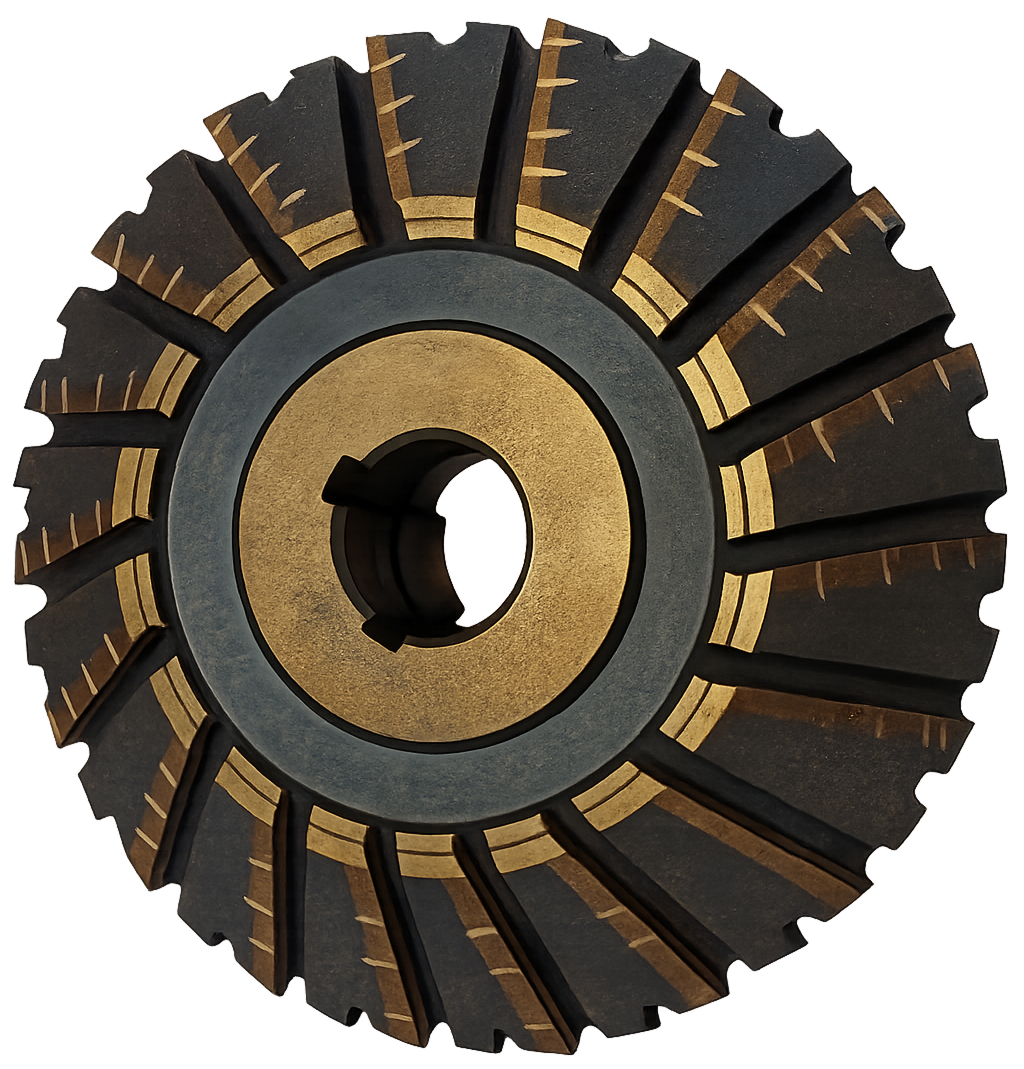
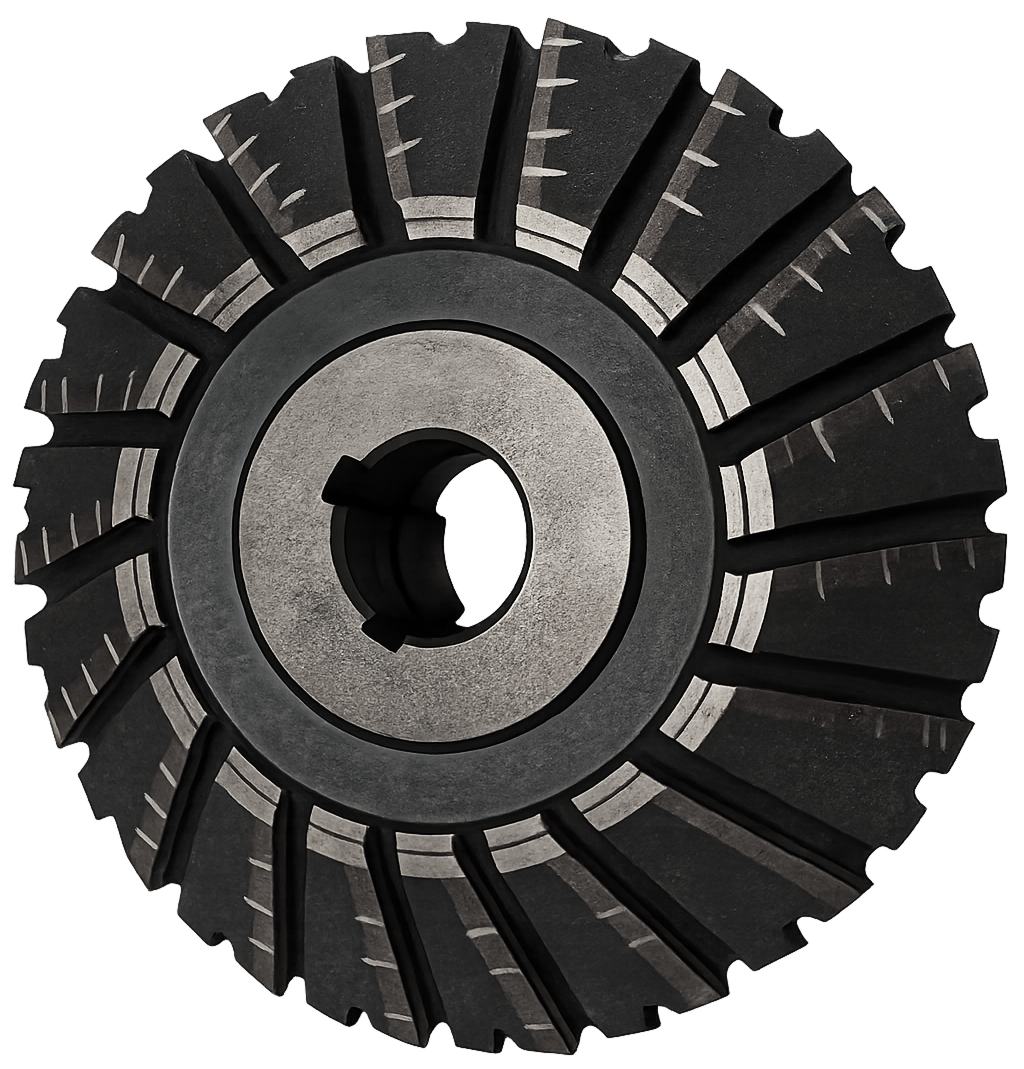
Волжанка и Тд вильямс

diff --git a/index.html b/index.html
@@ -33,10 +33,13 @@
   <section class="hero">
     <div class="container">
       <h1 class="hero__title">Pipe Cold Cutting &amp; Hot Tapping Equipment</h1>
-      <p class="hero__subtitle">Manufacture of tools for oil & gas pipeline repair
-         with flexible pricing. <!--Hot-tapping (fireless tapping) machines, 
+      <p class="hero__subtitle">Manufacture of tools for oil & gas pipeline repair.
+         <!--Hot-tapping (fireless tapping) machines, 
          angular and ring/annular cutters.--> </p>
-      <a href="contact.html" class="btn">Contact us</a>
+      <div class="hero__actions">
+        <a href="contact.html" class="btn">Contact us</a>
+        <a href="#products" class="btn btn--dark">Products</a>
+      </div>
     </div>
   </section>
 
@@ -46,13 +49,14 @@
       <h2 class="section-title">About company</h2>
       <div class="about__grid">
         <div class="about__text">
-          <p>For over 25 years, the company has been supplying equipment for the repair
+          <p><strong>PNRS LLC</strong> — for over 25 years, the company has been supplying equipment for the repair
              of oil and gas pipelines across all gas and oil networks of Eurasia,
-              and successfully cooperates with major raw-material suppliers such as: .... . 
+              and successfully cooperates with major raw-material suppliers.
               </p>
           <p>For more than a quarter of a century, we have been successfully manufacturing
-               fireless tapping machines (SM-307) and hot-tapping units for drilling holes
-                in pipelines — UKhV-50, UKhV-150, UKhV-300.</p>
+               chain-driven pipe cold cutting and beveling machines (SM-307) and hot tapping
+                machines that make branch connections of various diameters - 50, 150, 300
+                and 500 mm - in live, pressurized oil and gas pipelines without interrupting flow.</p>
         </div>
         <div class="about__image">
           <img src="images/HPU_stanki.png" alt="О компании BigTech">
@@ -62,33 +66,51 @@
   </section>
 
   <!-- ========== СЕКЦИЯ — Услуги / Преимущества ========== -->
-  <section class="features">
+  <section class="features" id="products">
     <div class="container">
       <h2 class="section-title">Что мы делаем</h2>
       <div class="features__grid">
         <div class="card">
           <div class="features_card_text">
-            <h3 class="card__title">Pipe cold cutting &amp; beveling machine (SM-307)</h3>
-            <p class="card__text">Chain-driven, spark-free cutting of in-service pipes — no heat, no sparks, weld-ready edge.</p>
+            <h3 class="card__title">Pipe cold cutting &amp; beveling machine</h3>
+            <h3 class="card__title">(219–820 mm)</h3>
+            <p class="card__text">SM-307 - chain-driven, spark-free cutting of in-service pipes, no heat, no sparks, weld-ready edge.</p>
             <a href="sm-307.html" class="card__btn">View details</a>
           </div>
-          <img src="images/sm-307img.png" alt="Pipe cold cutting machine SM-307">
+          <img src="images/sm-307imgW.png" alt="Pipe cold cutting machine SM-307">
         </div>
         <div class="card">
           <div class="features_card_text">
-            <h3 class="card__title">Hot tapping machines — UKhV-50, UKhV-150, UKhV-300</h3>
+            <h3 class="card__title">Pipe cold cutting &amp; beveling machine</h3>
+            <h3 class="card__title">(325–1420 mm)</h3>
+            <p class="card__text">Chain-driven, spark-free cutting of large-diameter in-service pipes - no heat, no sparks, weld-ready edge.</p>
+            <a href="voljanka.html" class="card__btn">View details</a>
+          </div>
+          <img src="images/voljanka.png" alt="Pipe cold cutting machine for 325–1420 mm pipes">
+        </div>
+        <div class="card card--hottap">
+          <div class="features_card_text">
+            <h3 class="card__title">Hot tapping machines — 50mm, 150mm, 300mm</h3>
             <p class="card__text">Make new branch connections on live, pressurized pipelines without interrupting flow.</p>
             <a href="UKnV.html" class="card__btn">View details</a>
           </div>
-          <img src="images/uhvBW.png" alt="UKhV hot tapping machine">
+          <img src="images/uhvW.png" alt="UKhV hot tapping machine">
         </div>
         <div class="card">
           <div class="features_card_text">
-            <h3 class="card__title">Annular &amp; profile cutters</h3>
-            <p class="card__text">Cutters for pipe-cutting and hot tapping machines — a wide range of pipe diameters.</p>
+            <h3 class="card__title">Angle milling cutters (FEIN)</h3>
+            <p class="card__text">Angle milling cutters for pipe cold cutting &amp; beveling machines - clean, weld-ready bevel across a wide range of diameters.</p>
             <a href="cutters.html" class="card__btn">View details</a>
           </div>
-          <img src="images/cutter1_2.png" alt="Annular and profile cutters">
+          <img src="images/cutter1.png" alt="Angle milling cutters (FEIN) for pipe cold cutting machines">
+        </div>
+        <div class="card">
+          <div class="features_card_text">
+            <h3 class="card__title">Annular cutters (T.D. Williamson)</h3>
+            <p class="card__text">Annular cutters for Hot Tapping &amp; Isolation equipment - cut branch outlets on live, pressurized pipelines.</p>
+            <a href="cutters.html" class="card__btn">View details</a>
+          </div>
+          <img src="images/cuttertdwilliamson.png" alt="Annular cutters (T.D. Williamson) for hot tapping and isolation">
         </div>
       </div>
     </div>

diff --git a/cutters.html b/cutters.html
@@ -35,34 +35,45 @@
   <section class="about_307">
     <div class="container">
       <h1 class="section-title_sm307_1">Annular &amp; Profile Cutters</h1>
-
-      <div class="about__grid_sm307">
+        <template>
+        <div class="about__grid_sm307">
         <div class="features_card_text">
           <h3 class="section-title_sm307">Cutters</h3>
           <p class="card__text">High-precision annular and profile cutters for both
-            pipe-cutting and hot tapping machines — engineered for fast, clean and
+            pipe cold cutting and hot tapping machines — engineered for fast, clean and
             reliable cutting across a wide range of pipe diameters and wall thicknesses.</p>
+          <p class="card__text">We supply two cutter families: <strong>angle milling
+            cutters</strong> for pipe cold cutting &amp; beveling machines, and
+            <strong>annular cutters</strong> for hot tapping &amp; line isolation
+            equipment.</p>
           <a href="contact.html" class="card__btn">Contact us</a>
         </div>
 
-        <img src="images/cutter1_2.png" alt="Annular and profile cutters">
+        <!-- Замени фото ниже на свои: общий кадр обоих семейств фрез -->
+        <img src="images/cuttertdwilliamson3.png" alt="Annular and profile cutters">
 
         <div class="card_cutter">
           <div class="features_card_text">
-            <h6 class="card__title">Annular cutters</h6>
-            <p class="card__text">For pipe-cutting &amp; hot tapping machines</p>
+            <h6 class="card__title">Angle milling cutters (FEIN)</h6>
+            <p class="card__text">For pipe cold cutting &amp; beveling machines. Machine
+              a clean, weld-ready bevel across a wide range of pipe diameters and wall
+              thicknesses.</p>
           </div>
-          <img src="images/cutter1.png" alt="Annular cutters">
+          <!-- Замени на фото угловых фрез -->
+          <img src="images/cutter1.png" alt="Angle milling cutters (FEIN) for pipe cold cutting machines">
         </div>
 
         <div class="card_cutter">
           <div class="features_card_text">
-            <h6 class="card__title">Profile cutters</h6>
-            <p class="card__text">For pipe-cutting &amp; hot tapping machines</p>
+            <h6 class="card__title">Annular cutters (T.D. Williamson)</h6>
+            <p class="card__text">For Hot Tapping &amp; Isolation equipment. Cut the
+              branch outlet on live, pressurized pipelines without interrupting flow.</p>
           </div>
-          <img src="images/cutter2.png" alt="Profile cutters">
+          <!-- Замени на фото корончатых фрез -->
+          <img src="images/cuttertdwilliamson.png" alt="Annular cutters (T.D. Williamson) for hot tapping and isolation">
         </div>
-      </div>
+      </div> 
+      </template>
     </div>
   </section>
 

diff --git a/css/style.css b/css/style.css
@@ -26,6 +26,10 @@
   padding: 0;
 }
 
+html {
+  scroll-behavior: smooth; /* плавная прокрутка по якорям (#products) */
+}
+
 body {
   font-family: var(--font-body);
   font-size: 16px;
@@ -141,6 +145,18 @@ a {
   color: #ffffff;
 }
 
+/* Чёрная (вторичная) кнопка — например "Products" */
+.btn--dark {
+  background: var(--color-text);
+}
+
+/* Ряд кнопок в герое */
+.hero__actions {
+  display: flex;
+  flex-wrap: wrap;
+  gap: 14px;
+}
+
 
 /* ============================================
    ЗАГОЛОВОК СЕКЦИИ
@@ -227,10 +243,20 @@ a {
 }
 
 .card img {
+  width: 100%;
+  height: 240px;          /* единая высота для всех фото */
+  object-fit: contain;    /* фото вписывается целиком, без искажений */
+}
 
-  max-height: 500px;
-  width: auto;
-  height: 100%;
+/* Исключение: у Hot tapping в самом PNG много пустого поля,
+   поэтому даём фото больше высоты, чтобы машина не казалась мелкой */
+.card--hottap img {
+  height:420px;
+}
+
+/* Чтобы якорь #products не прятался под липкой шапкой */
+#products {
+  scroll-margin-top: 80px;
 }
 
 .about_307 {

diff --git a/sm-307.html b/sm-307.html
@@ -37,17 +37,17 @@
   <section class="about_307">
     <div class="container">
       <h1 class="section-title_sm307_1">Chain-Driven Pipe Cold Cutting &amp; Beveling Machine</h1>
-
+      <template>
       <div class="about__grid_sm307">
         <div class="features_card_text">
-          <h3 class="section-title_sm307">SM-307</h3>
+          <h3 class="section-title_sm307">219–820 mm</h3>
           <p class="card__text">The SM-307 is a chain-driven pipe cold cutting and
             beveling machine for spark-free, in-service cutting that leaves a weld-ready
             edge — oil &amp; gas fields, offshore platforms and underwater applications.</p>
           <a href="contact.html" class="card__btn">Contact us</a>
         </div>
 
-        <img src="images/sm-307img.png" alt="Pipe cold cutting machine SM-307">
+        <img src="images/sm-307imgW.png" alt="Pipe cold cutting machine SM-307">
 
         <div class="card_cutter">
           <div class="features_card_text">
@@ -65,6 +65,7 @@
           <img src="images/chain.jpg" alt="Driving chain for SM-307">
         </div>
       </div>
+      </template> 
     </div>
   </section>
 